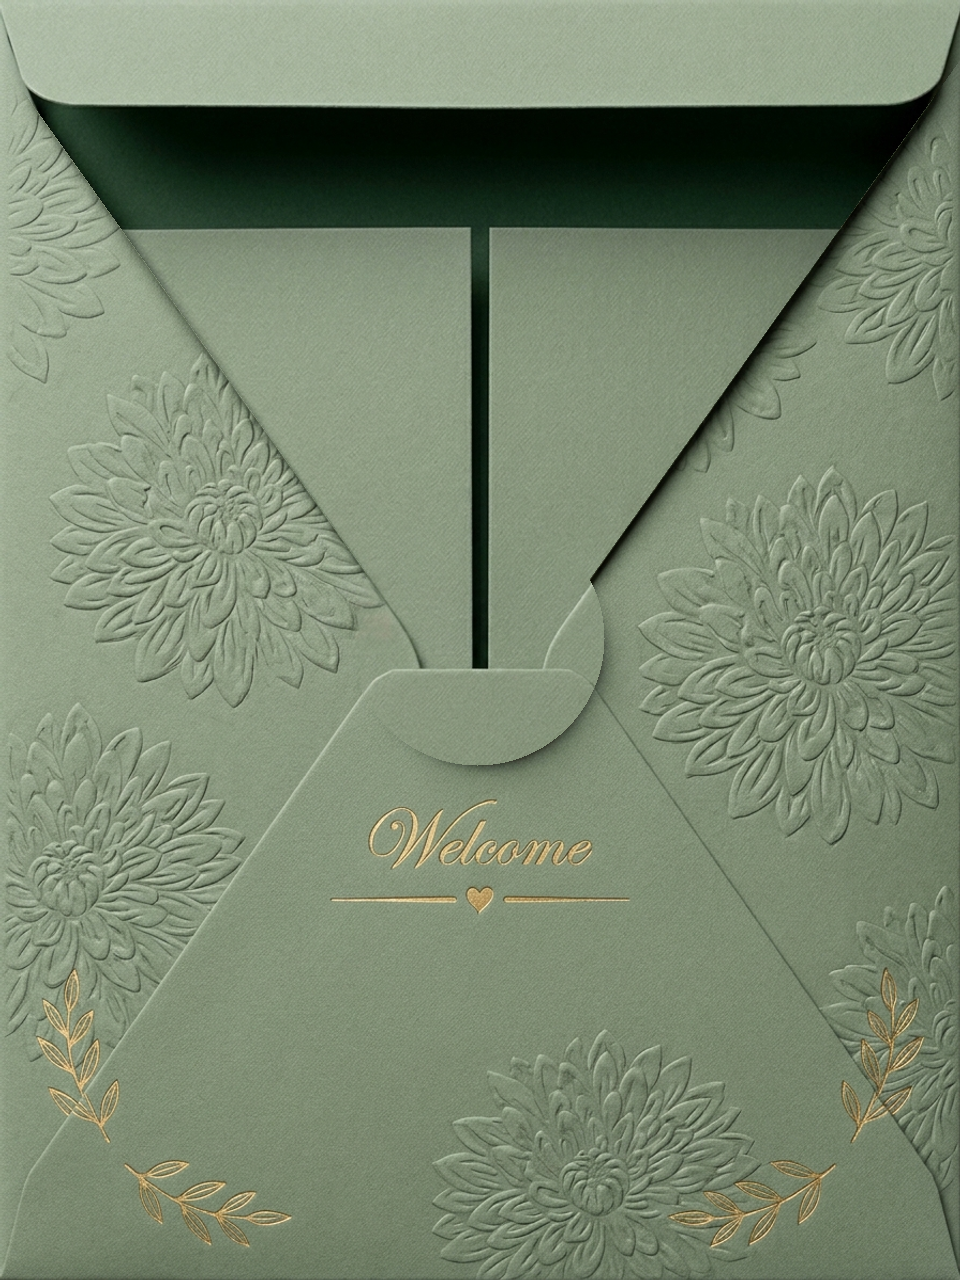
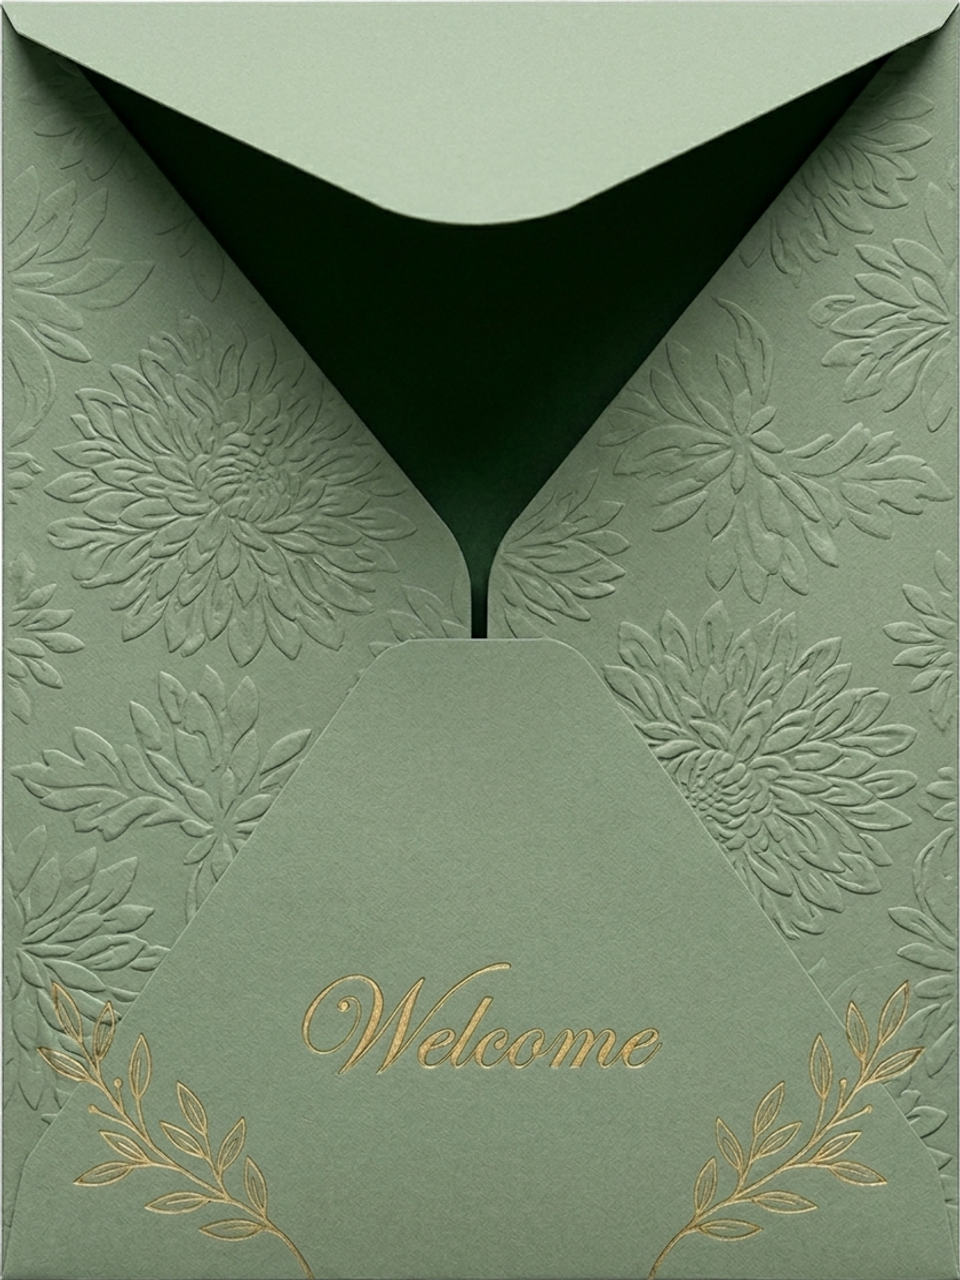
Heritage: back to checkpoint 7 - symmetric sage Higgsfield envelope
User picked version 7 from the day's checkpoint list: the gen-2
perfectly-symmetric sage envelope with the AI-generated open pocket.
Assets restored from 685e7a3 (the halo-fixed state: pure-triangle
flap, chroma-fitted seal disc, full open-envelope pocket render) and
the scene constants remapped to its geometry (EDGE 0.0398/0.5727,
notchY 0.5727, sealY 0.5, sealD 270/960, closeup 0.5). Everything
refined since is kept: 2.6s opening and clocks, live mouth shadows,
and the settled idea-3 die-pressed monogram.

diff --git a/components/heritage/HeritageApp.jsx b/components/heritage/HeritageApp.jsx
@@ -398,10 +398,10 @@ function DovesOrnament({ className = "" }) {
    under the flap. transform/opacity only → 60fps on phones. */
 /* الظرف الأصلي (اختيار المستخدم النهائي): قطعتا الرسم الأولي
    بنقش الدانتيل والزخارف الذهبية — نفس الفتح والمدة والظلال الحالية */
-/* اختيار المستخدم (new-2): الأقحوان الكبير المريمي — درزا الغطاء
-   من (0,59) و(960,59) إلى الرأس (480,732) المخفي خلف الشمع
-   (477,638) نق~118؛ الجيب مركّب: جسد المغلقة + فم Higgsfield
-   المفتوح (ببطاقة داخلية) داخل المثلث */
+/* اختيار المستخدم (النقطة 7): ظرف Higgsfield المتناظر المريمي —
+   درزاه من (0,51) و(960,49) إلى الرأس (480,733)، الغطاء مثلث صرف
+   والختم يركب معه عبر القرص العائم، والجيب صورة الظرف المفتوح
+   المولّدة كاملة */
 const ENVELOPE_TOP = "/assets/templates/heritage2-top.png";
 const ENVELOPE_BOTTOM = "/assets/templates/heritage2-bottom.png";
 const IMG_W = 960;
@@ -439,11 +439,11 @@ function useEnvelopeScene() {
          diagonal. MEASURED from the pocket PNG's alpha channel (column
          scan), so it hugs the real artwork edge exactly */
       const EDGE = [
-        [0, 0.0461],
-        [0.25, 0.309],
-        [0.5, 0.5719],
-        [0.75, 0.309],
-        [1, 0.0461],
+        [0, 0.0398],
+        [0.25, 0.3062],
+        [0.5, 0.5727],
+        [0.75, 0.3055],
+        [1, 0.0383],
       ];
       /* opening mouth: follows the edge path (+3px overlap) */
       const cavityClip = `polygon(${[
@@ -456,7 +456,7 @@ function useEnvelopeScene() {
         cavityClip,
         /* bottom of the pocket's notch — anchors the cavity's contact
            shadow (strongest at center, lighter at the sides) */
-        notchY: oy + 0.5719 * h,
+        notchY: oy + 0.5727 * h,
         /* camera close-up anchor — tuned so the sealed frame shows the
            FULL Arabic welcome (with its ornaments) at the top, the seal
            large at mid-frame and the Welcome script complete below */
@@ -466,8 +466,8 @@ function useEnvelopeScene() {
            positioner, drawn exactly over the baked disc — centering
            never depends on the artwork file. Row and radius are the
            PNG measurements (canvas 270px, disc center 480,640). */
-        sealY: oy + 0.4984 * h, // disc center row (638/1280)
-        sealD: (250 / 960) * w, // overlay canvas at artwork scale
+        sealY: oy + 0.5 * h, // disc center row (640/1280)
+        sealD: (270 / 960) * w, // overlay canvas at artwork scale
       });
     }
     compute();